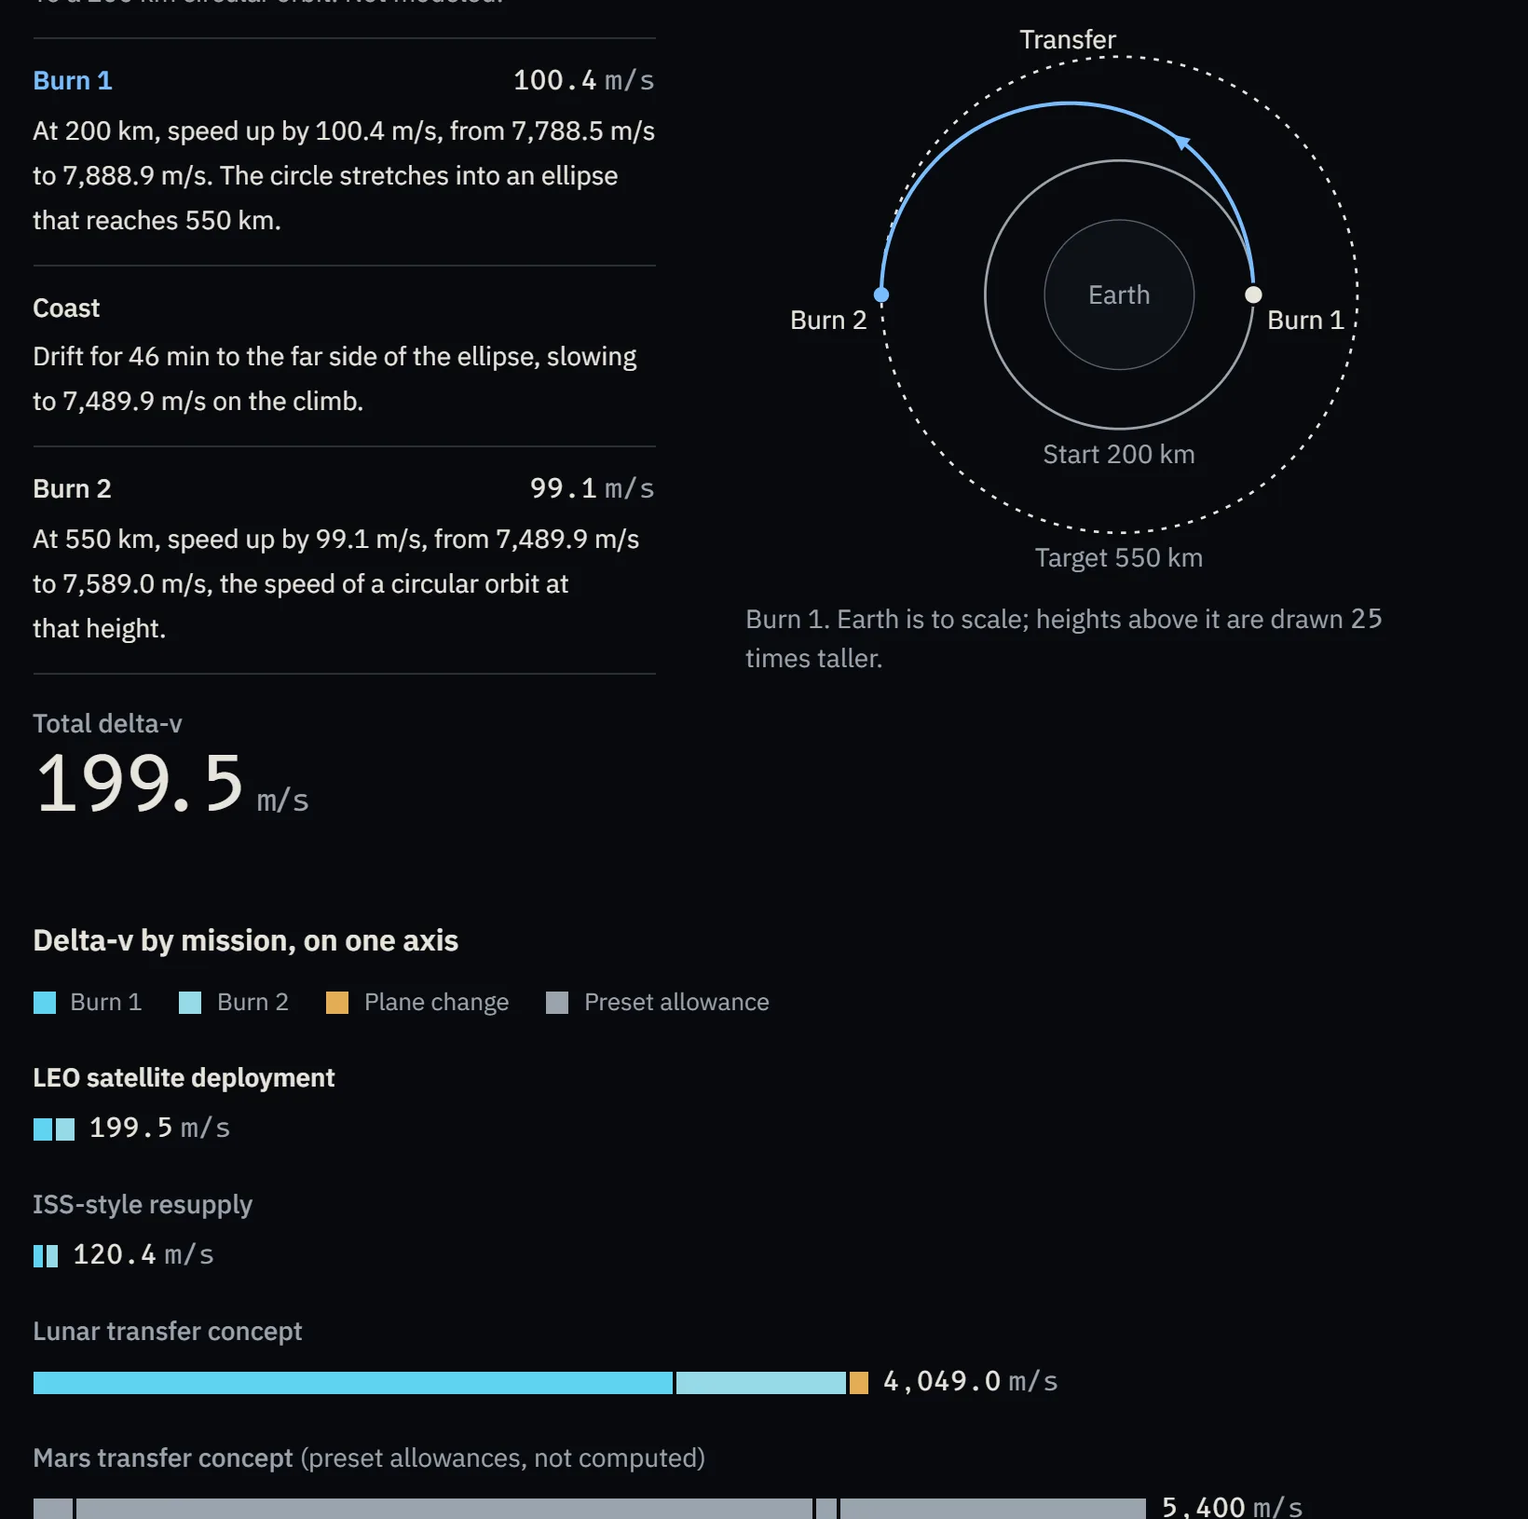
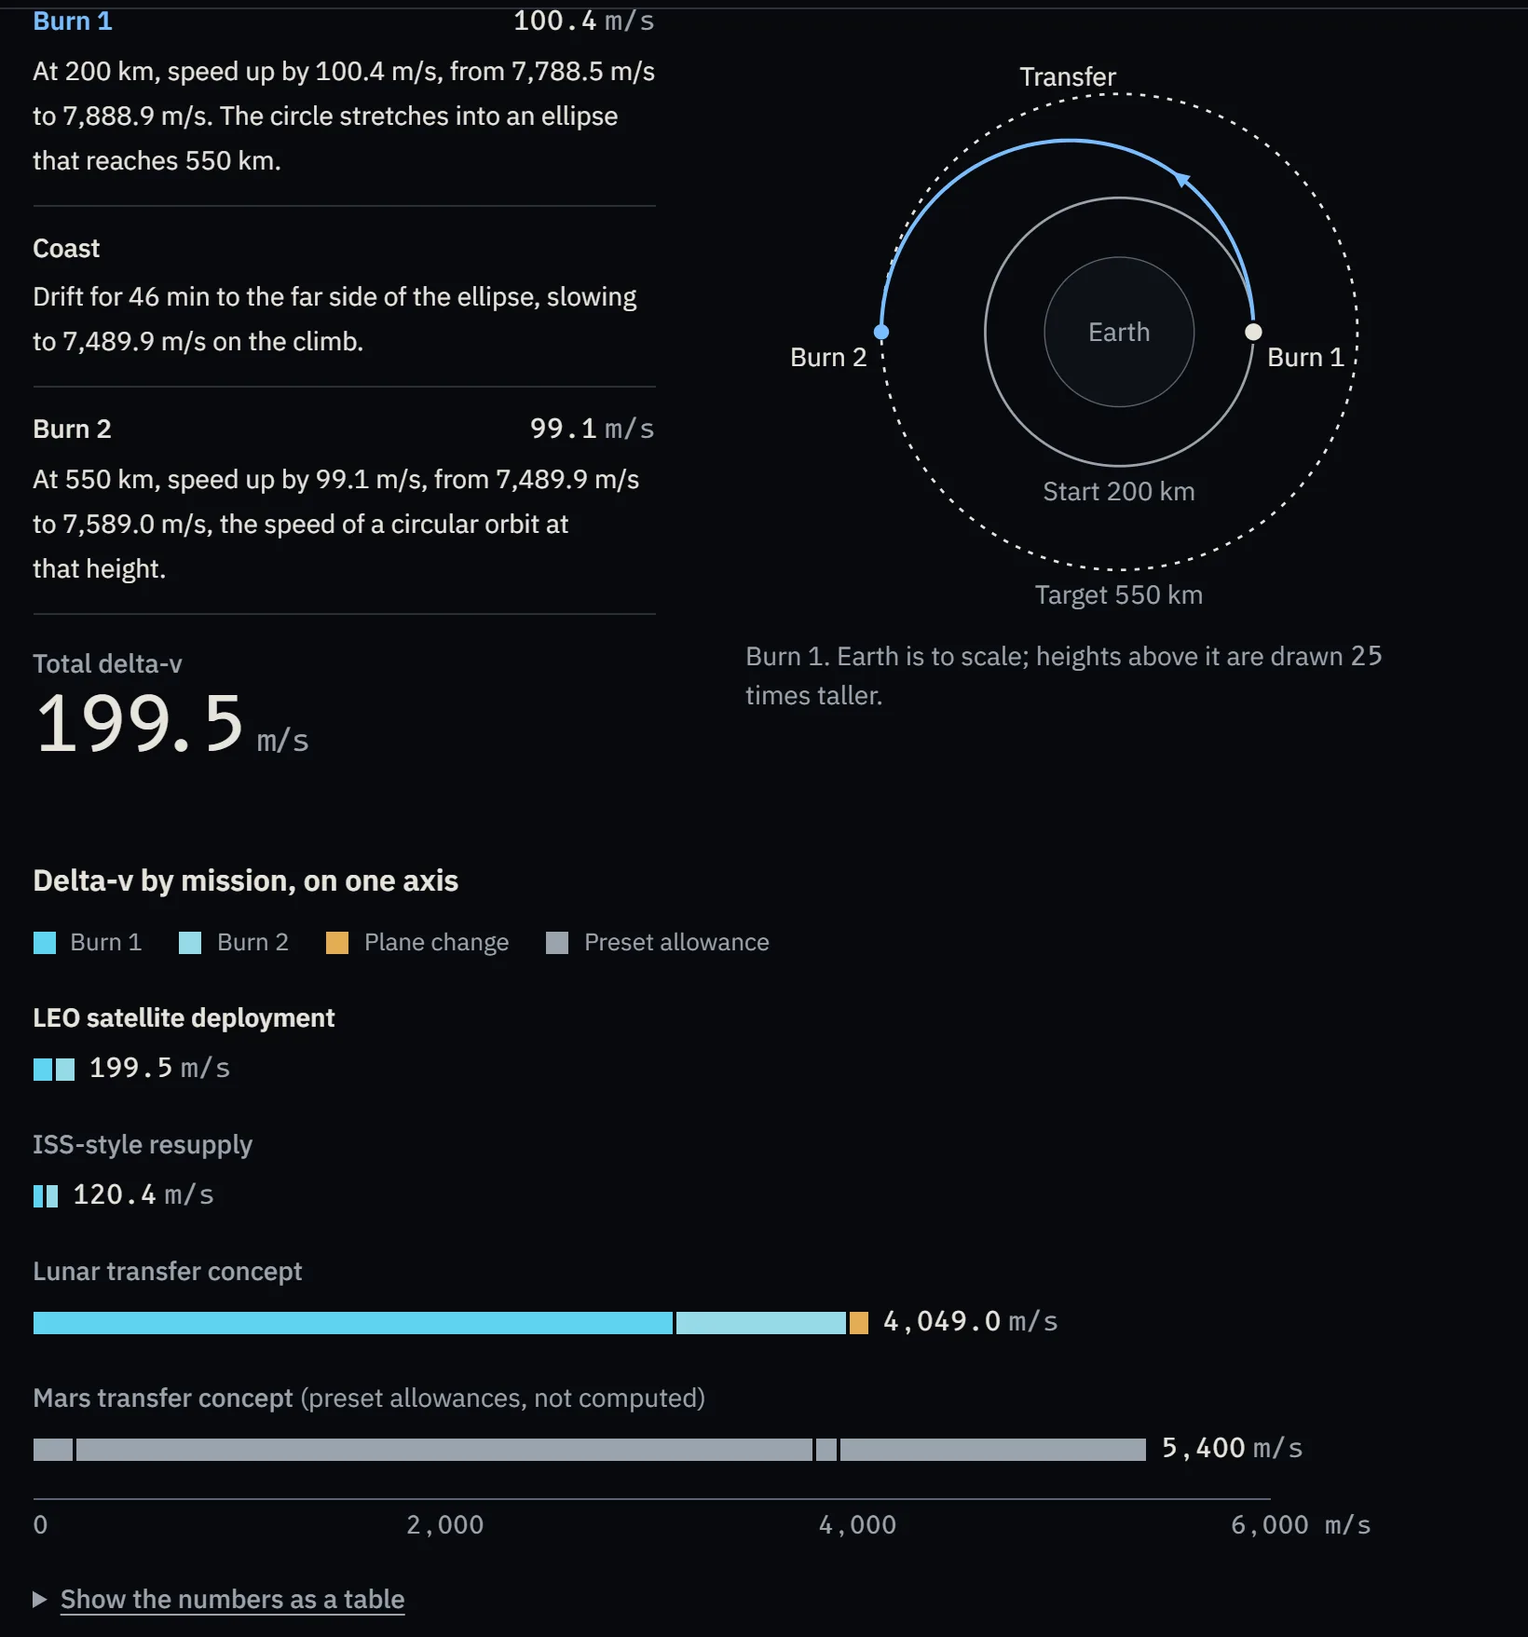
fix: final pre-launch audit fixes
Sync wording with the resume and lab report (Lowell, fundraising, AI Club,
Walk-Run title, Tyngsborough, ORBIX authorship), correct nozzle details
(CEA gamma range, radii from the CEA area ratio, outlet and solver rows,
residual range), soften overstated lines, match photo pair heights, let
link pairs wrap cleanly, crop the Diwali game photo, and recapture the
full mission planner screenshot.

diff --git a/experience/index.html b/experience/index.html
@@ -77,7 +77,7 @@
             lesson myself.
           </p>
 
-          <div class="evidence evidence--compact">
+          <div class="evidence evidence--matched" style="--ar: 4 / 3">
             <figure>
               <img
                 src="../assets/bal-mandal/weekly-assembly-lesson.webp"
@@ -88,8 +88,6 @@
                 Teaching a lesson at a weekly Bal Mandal assembly.
               </figcaption>
             </figure>
-          </div>
-          <div class="evidence evidence--compact">
             <figure>
               <img
                 src="../assets/bal-mandal/peer-teacher-meeting-deep.webp"
@@ -110,7 +108,7 @@
             the stage programs for the whole camp. In 2026 I ran a smaller shibir.
           </p>
 
-          <div class="evidence">
+          <div class="evidence evidence--matched" style="--ar: 16 / 10">
             <figure>
               <img
                 src="../assets/bal-mandal/shibir-solo-deep.webp"
@@ -157,7 +155,7 @@
             it again in 2026.
           </p>
 
-          <div class="evidence">
+          <div class="evidence evidence--matched" style="--ar: 16 / 9">
             <figure>
               <img
                 src="../assets/bal-mandal/kdc-large-group-assembly.webp"
@@ -173,7 +171,7 @@
               <img
                 src="../assets/bal-mandal/kdc-kids-game-activity.webp"
                 alt="Children playing a game, with other activities going on behind them."
-                width="1200" height="800" loading="lazy" decoding="async"
+                width="1200" height="600" loading="lazy" decoding="async"
               >
               <figcaption>
                 One of the arcade-style games at the Kids Diwali Celebration.
@@ -202,7 +200,7 @@
             coordinate the stage setup and crowd control.
           </p>
 
-          <h4 class="subhead">National youth convention, 2027</h4>
+          <h4 class="subhead">National youth convention, 2027 (upcoming)</h4>
           <p class="group__detail">
             I am preparing to help run a national BAPS youth convention in 2027. More than
             10,000 young people are expected.
@@ -296,16 +294,16 @@
           <h2 class="section__title" id="xp-charities">Community service</h2>
         </div>
         <div>
-          <h3 class="group__role">Volunteer, BAPS Charities</h3>
+          <h3 class="group__role">Walkathon Organizer and Outreach Volunteer, BAPS Charities</h3>
           <p class="group__when">Lowell, MA · June 2017 to present</p>
           <p class="group__detail">
             The biggest BAPS Charities event in Lowell is the annual Walk-Run, a walkathon that
             raises money for a different cause each time. I help organize it every year,
-            setting up the routes and running registration, and I raise thousands of dollars
-            in pledges for it myself, more than $15,000 across high school. Recent walks have
+            setting up the routes and running registration. I raise pledges for it each year,
+            and across high school I have helped raise more than $15,000. Recent walks have
             supported The
-            Nature Conservancy, breast cancer awareness, the Lowell Police and Tyngsboro Fire
-            departments, and Tyngsboro Public Schools. The 2025 walk had more than 650
+            Nature Conservancy, breast cancer awareness, the Lowell Police and Tyngsborough Fire
+            departments, and Tyngsborough Public Schools. The 2025 walk had more than 650
             participants.
           </p>
           <p class="group__detail">
@@ -314,7 +312,7 @@
             encourage other people in the community to get involved.
           </p>
 
-          <div class="evidence">
+          <div class="evidence evidence--matched" style="--ar: 16 / 9">
             <figure>
               <img
                 src="../assets/charities/walk-run-2025-program.webp"
@@ -335,7 +333,7 @@
               >
               <figcaption>
                 The ribbon cutting at the start of the 2025 Walk-Run. That year's walk supported
-                the Lowell Police and Tyngsboro Fire departments.
+                the Lowell Police and Tyngsborough Fire departments.
                 <span class="credit">Photo credit: BAPS Charities</span>
               </figcaption>
             </figure>
@@ -370,7 +368,7 @@
           <h3 class="group__role">Vice President, Artificial Intelligence Club</h3>
           <p class="group__when">September 2025 to present</p>
           <p class="group__detail">
-            I help manage the club's 15 members and host meetings every two weeks on using AI
+            I manage the club's 15 members and host meetings every two weeks on using AI
             safely and the ethics of coding with it. I also led a project team for the MIT
             URTC competition that built an AI tool to monitor conditions at home and help care
             for household plants.
@@ -425,7 +423,7 @@
             </p>
           </div>
 
-          <div class="evidence">
+          <div class="evidence evidence--matched" style="--ar: 3 / 4">
             <figure>
               <img
                 src="../assets/robotics/claw-robot.webp"
@@ -460,7 +458,7 @@
 
   <footer class="site-footer">
     <div class="wrap site-footer__inner">
-      <p>Deep Patel · Chelmsford, Massachusetts</p>
+      <p>Deep Patel · Lowell, Massachusetts</p>
       <p>
         <a href="mailto:deep.patel4000@gmail.com">deep.patel4000@gmail.com</a>
         <span aria-hidden="true">·</span>

diff --git a/index.html b/index.html
@@ -4,12 +4,12 @@
   <meta charset="UTF-8">
   <meta name="viewport" content="width=device-width, initial-scale=1">
   <title>Deep Patel · Aerospace projects and service</title>
-  <meta name="description" content="Deep Patel is a high school senior in Chelmsford, Massachusetts who plans to study aerospace engineering and coordinates the children's program at his BAPS temple in Lowell.">
+  <meta name="description" content="Deep Patel is a senior at Chelmsford High School in Massachusetts who plans to study aerospace engineering and coordinates the children's program at his BAPS temple in Lowell.">
   <link rel="canonical" href="https://deeppatel4000-pixel.github.io/">
   <meta property="og:type" content="website">
   <meta property="og:site_name" content="Deep Patel">
   <meta property="og:title" content="Deep Patel · Aerospace projects and service">
-  <meta property="og:description" content="Two aerospace projects, ORBIX and a bell nozzle CFD study, plus years of BAPS youth service from a Chelmsford High School senior.">
+  <meta property="og:description" content="Two aerospace projects, ORBIX and a 3D-printed rocket bell nozzle, plus years of BAPS youth service from a Chelmsford High School senior.">
   <meta property="og:url" content="https://deeppatel4000-pixel.github.io/">
   <meta property="og:image" content="https://deeppatel4000-pixel.github.io/assets/og/home.jpg">
   <meta name="twitter:card" content="summary_large_image">
@@ -45,8 +45,9 @@
             filled most of my weeks since middle school.
           </p>
           <p>
-            <strong>ORBIX</strong> is an aerospace engineering web app I planned and
-            researched. The <strong>Bell Nozzle</strong> is a rocket nozzle I drew, meshed, ran
+            <strong>ORBIX</strong> is an aerospace engineering web app I designed, with 13
+            calculators and a page that checks selected results against published worked
+            examples. The <strong>Bell Nozzle</strong> is a rocket nozzle I drew, meshed, ran
             through SimFlow, and then printed. At <strong>BAPS</strong> I coordinate the weekly
             children's program at our temple, which means 15 peer teachers and more than 70
             kids.
@@ -109,7 +110,8 @@
               I tried designing a bell nozzle because I wanted to understand how one really
               works. After drawing the profile in OpenSCAD, I ran its flow volume through SimFlow
               and OpenFOAM and printed the part in PLA. The CFD never converged. My best run got
-              to iteration 24, and trying to find the reason took up most of the project.
+              to iteration 24, and most of the case study is about why. The 10-page lab report
+              includes the full NASA CEA output.
             </p>
 
             <p class="feature__links">
@@ -139,13 +141,13 @@
             <h3 class="feature__title" id="service-title">Service and leadership</h3>
             <p class="feature__summary">
               I started teaching in Bal Mandal at the BAPS Swaminarayan Temple in Lowell in 2022
-              and became Youth Activities Coordinator in 2024. I train the peer teachers and assign their lessons. Before each weekly
-              assembly I run a planning meeting, and afterward we hold a debrief. I also help
-              put on the stage programs at summer camps of more than 1,000 participants and handle the
-              logistics for the Kids Diwali Celebration. In 2023 I worked at BAPS Akshardham in
-              New Jersey, cutting ornamental parts on industrial CNC and hot-wire machines. And
-              since 2017 I have volunteered with BAPS Charities, where I help run the Walk-Run
-              every year.
+              and became Youth Activities Coordinator in 2024. I train the peer teachers and
+              assign their lessons. Before each weekly assembly I run a planning meeting, and
+              afterward we hold a debrief. From 2023 to 2025 I helped put on the stage programs
+              at summer camps of more than 1,000 participants and handled the logistics for the
+              Kids Diwali Celebration. In 2023 I worked at BAPS Akshardham in New Jersey,
+              cutting ornamental parts on industrial CNC and hot-wire machines. Since 2017 I
+              have volunteered with BAPS Charities, where I help run the Walk-Run every year.
             </p>
 
             <p class="feature__links">
@@ -223,7 +225,7 @@
 
   <footer class="site-footer">
     <div class="wrap site-footer__inner">
-      <p>Deep Patel · Chelmsford, Massachusetts</p>
+      <p>Deep Patel · Lowell, Massachusetts</p>
       <p>
         <a href="mailto:deep.patel4000@gmail.com">deep.patel4000@gmail.com</a>
         <span aria-hidden="true">·</span>

diff --git a/projects/bell-nozzle/index.html b/projects/bell-nozzle/index.html
@@ -101,8 +101,9 @@
               number for a given ratio of specific heats. You pick the Mach number you want at
               the exit, and it tells you how much bigger the exit has to be than the throat.
               I worked my sizing around a LOX/RP-1 case: an oxidizer to fuel ratio of 2.3, a
-              100 bar chamber at about 3615 K, expanding to 0.7 bar at roughly 3 km altitude,
-              with a ratio of specific heats of 1.2 and a molecular weight of 22.65 g/mol. I
+              100 bar chamber at about 3615 K, expanding to 0.7 bar at roughly 3 km altitude.
+              NASA CEA put the molecular weight at about 22.65 g/mol at the throat and the ratio
+              of specific heats between 1.15 and 1.22. For hand calculations I used 1.2. I
               started with a rough target of Mach 3.5 at the exit.
             </p>
           </div>
@@ -194,8 +195,8 @@
 
           <div class="prose prose--after-spec">
             <p>
-              The throat and exit radii came from NASA CEA, which I ran for this engine on
-              8 October 2025. CEA gives an exit to throat area ratio of 15.916 and an exit Mach
+              I set the throat and exit radii to match the area ratio from NASA CEA, which I
+              ran for this engine on 8 October 2025. CEA gives an exit to throat area ratio of 15.916 and an exit Mach
               number of 3.54. The exit radius divided by the throat radius is 3.99, so the part
               I printed has a geometric area ratio of 15.92, matching it. As a check, the simple
               isentropic relation with a fixed ratio of specific heats of 1.2 gives about Mach
@@ -239,7 +240,7 @@
             </div>
             <div>
               <dt>Solver</dt>
-              <dd>OpenFOAM v2212</dd>
+              <dd>OpenFOAM v2212, rhoSimpleFoam (steady, compressible)</dd>
             </div>
             <div>
               <dt>Mesh</dt>
@@ -255,7 +256,11 @@
             </div>
             <div>
               <dt>Inlet</dt>
-              <dd>Pressure inlet, 100 bar total</dd>
+              <dd>Pressure inlet, 100 bar total, 3615 K</dd>
+            </div>
+            <div>
+              <dt>Outlet</dt>
+              <dd>Static pressure, 0.7 bar</dd>
             </div>
           </dl>
 
@@ -264,8 +269,7 @@
               The mesh is the weak point, and I can see that more clearly now than I could
               then. It is a uniform box wrapped around the nozzle, so the cells are the same
               size at the throat as they are out in the corner of the domain, where nothing
-              happens. The 0.7 bar exit target comes from my sizing notes. The 100 bar inlet I
-              can still read straight off the case setup.
+              happens.
             </p>
           </div>
 
@@ -367,7 +371,7 @@
               10<sup>49</sup>, a maximum pressure of about 10<sup>101</sup>, and a minimum
               pressure of about minus 10<sup>99</sup>. Physically meaningless numbers like these
               mean the case was falling apart. In the residual plot from that run, the three
-              velocity residuals level off between 10<sup>-2</sup> and 10<sup>-1</sup>, while
+              velocity residuals level off between about 0.01 and 0.05, while
               the enthalpy residual stays pinned at 1. A converging case would show all of them
               dropping together.
             </p>
@@ -522,7 +526,7 @@
 
   <footer class="site-footer">
     <div class="wrap site-footer__inner">
-      <p>Deep Patel · Chelmsford, Massachusetts</p>
+      <p>Deep Patel · Lowell, Massachusetts</p>
       <p>
         <a href="mailto:deep.patel4000@gmail.com">deep.patel4000@gmail.com</a>
         <span aria-hidden="true">·</span>

diff --git a/projects/index.html b/projects/index.html
@@ -40,7 +40,7 @@
         <h1 class="project-header__title">Projects</h1>
         <p class="lede">
           I've gone further with these two projects than with anything else. ORBIX is an
-          aerospace engineering web app I planned and researched. The bell
+          aerospace engineering web app I designed and researched. The bell
           nozzle began as a propulsion design and ended up taking me through CAD, CFD, a lot
           of debugging, and fabrication. Its case study covers what went wrong.
         </p>
@@ -61,8 +61,8 @@
                 The site pairs 13 calculators and a mission planner with profiles of ten real
                 vehicles, five aircraft and five launch vehicles. Its answers are checked
                 against published worked examples on a Verification page, where 26 of 36 values
-                match to within rounding. ORBIX was my idea and my research, and I built it
-                with AI coding tools.
+                match to within rounding. ORBIX was my idea and my research, and I used AI
+                coding tools to write the code.
               </p>
               <p class="feature__tools">Next.js · React · TypeScript · Vitest · Playwright</p>
               <p class="feature__links">
@@ -96,7 +96,7 @@
             <p class="feature__summary">
               I drew this nozzle in OpenSCAD from a six-point profile, meshed it, ran it in
               SimFlow and OpenFOAM, and printed it in PLA. The CFD never reached a converged
-              solution, and trying to track down the cause became the bulk of the work.
+              solution, and most of the case study is about why.
             </p>
             <p class="feature__tools">OpenSCAD · SimFlow · OpenFOAM · ParaView · Cura · PLA printing</p>
             <p class="feature__links">
@@ -127,7 +127,7 @@
 
   <footer class="site-footer">
     <div class="wrap site-footer__inner">
-      <p>Deep Patel · Chelmsford, Massachusetts</p>
+      <p>Deep Patel · Lowell, Massachusetts</p>
       <p>
         <a href="mailto:deep.patel4000@gmail.com">deep.patel4000@gmail.com</a>
         <span aria-hidden="true">·</span>

diff --git a/projects/orbix/index.html b/projects/orbix/index.html
@@ -108,7 +108,7 @@
         </div>
         <div class="prose">
           <p>
-            ORBIX was my idea. I chose the aircraft and launch vehicles, decided which
+            I chose the aircraft and launch vehicles, decided which
             calculators and mission scenarios to build, and worked out how the pieces connect.
             For each tool I researched the engineering and the vehicle specifications, then
             wrote instructions giving the exact equations, inputs, and units it needed. I also set
@@ -178,7 +178,7 @@
             <img
               src="../../assets/orbix/v4/orbix-mission-planner.webp"
               alt="The mission planner for a LEO satellite deployment: burns of 100.4 and 99.1 m/s around a 46 minute coast, 199.5 m/s total, above a bar chart of four presets."
-              width="1640" height="1630" loading="lazy" decoding="async"
+              width="1640" height="1757" loading="lazy" decoding="async"
             >
             <figcaption>
               The chart also shows ISS-style resupply and a Mars transfer concept. The Mars row
@@ -360,7 +360,7 @@
 
   <footer class="site-footer">
     <div class="wrap site-footer__inner">
-      <p>Deep Patel · Chelmsford, Massachusetts</p>
+      <p>Deep Patel · Lowell, Massachusetts</p>
       <p>
         <a href="mailto:deep.patel4000@gmail.com">deep.patel4000@gmail.com</a>
         <span aria-hidden="true">·</span>

diff --git a/styles.css b/styles.css
@@ -219,9 +219,6 @@ main:focus {
   padding-bottom: 1px;
 }
 
-.link-arrow + .link-arrow {
-  margin-left: var(--space-5);
-}
 
 /* --- header --------------------------------------------------------------- */
 
@@ -460,6 +457,9 @@ main:focus {
 
 .feature__links {
   margin-top: var(--space-5);
+  display: flex;
+  flex-wrap: wrap;
+  gap: var(--space-3) var(--space-5);
 }
 
 .feature__tools {
@@ -473,6 +473,11 @@ main:focus {
   margin-inline: auto;
   border: 0;
   border-radius: 0;
+}
+
+.feature__aside.feature__aside--portrait figcaption {
+  max-width: 19rem;
+  margin-inline: auto;
 }
 
 .feature__head {
@@ -697,6 +702,13 @@ main:focus {
   width: 100%;
   border: 1px solid var(--color-border);
   border-radius: var(--radius-sm);
+}
+
+/* photos in a pair share one shape so the row ends evenly; the lightbox
+   still shows each photo uncropped */
+.evidence--matched img {
+  aspect-ratio: var(--ar, 3 / 2);
+  object-fit: cover;
 }
 
 .evidence figcaption {

diff --git a/404.html b/404.html
@@ -39,7 +39,7 @@
 
   <footer class="site-footer">
     <div class="wrap site-footer__inner">
-      <p>Deep Patel · Chelmsford, Massachusetts</p>
+      <p>Deep Patel · Lowell, Massachusetts</p>
       <p><a href="mailto:deep.patel4000@gmail.com">deep.patel4000@gmail.com</a></p>
     </div>
   </footer>
